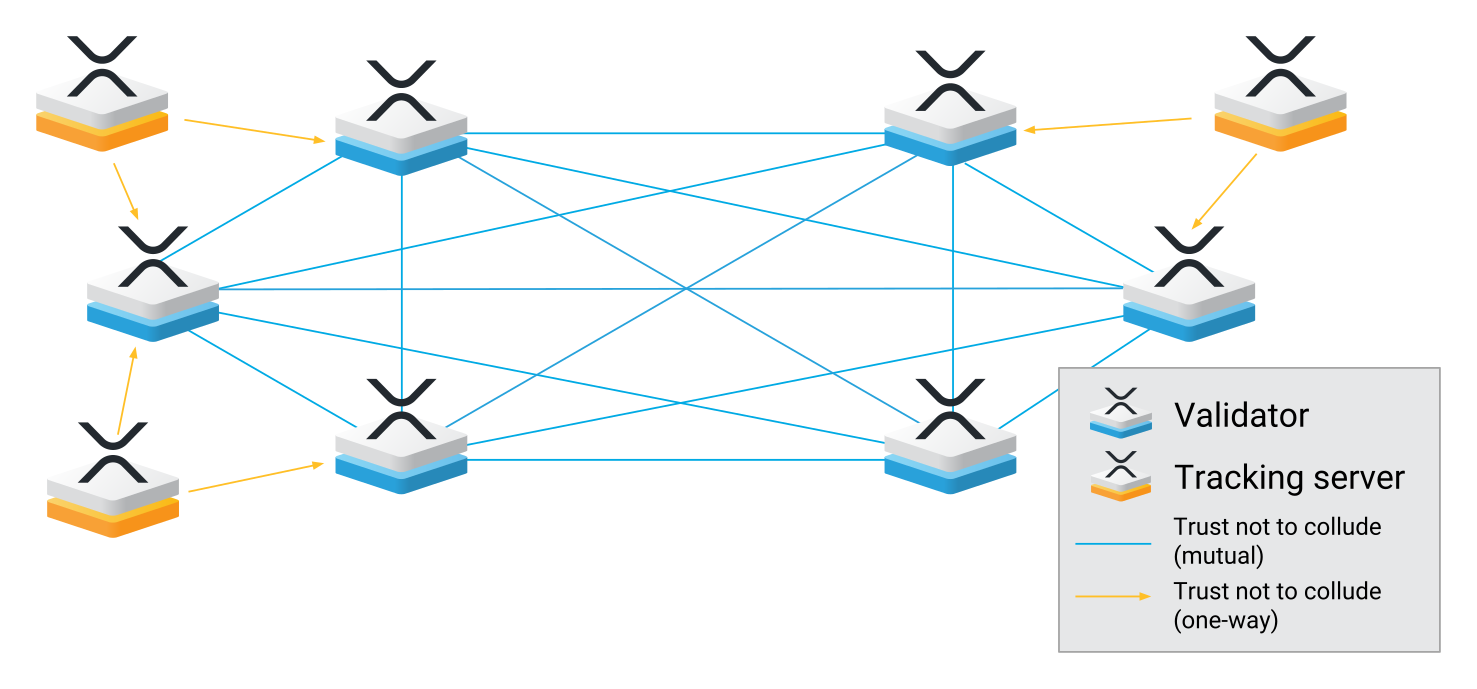
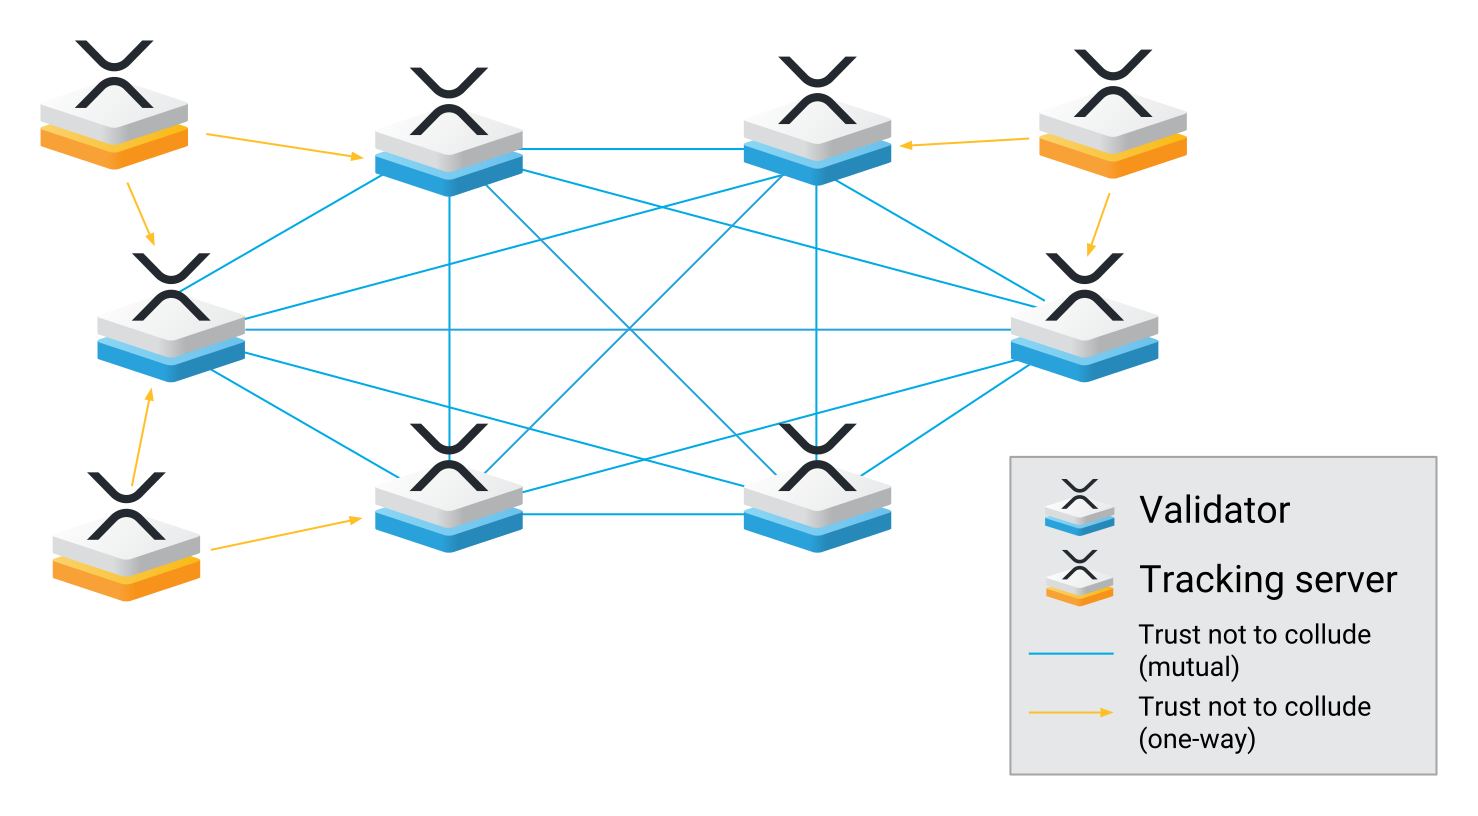
Consensus: more revised diagrams

diff --git a/content/concepts/consensus-network/consensus.md b/content/concepts/consensus-network/consensus.md
@@ -29,7 +29,9 @@ The XRP Ledger has a new ledger version every several seconds. When the network 
 
 _Figure 2: XRP Ledger Sequence and History_
 
-A ledger instance is identified by its _ledger index_, <a href="#footnote_1" id="footnote_from_1"><sup>1</sup></a>, also called a _sequence number_. Ledgers are numbered incrementally. If the current ledger is N, the previous was N-1 and the next is N+1. The N+1 ledger is produced by applying a set of transactions to ledger N. For any ledger index, there may be several candidate versions with slightly different contents, but only one version can become validated; the others are discarded.
+A ledger version has two identifiers. One identifier is its _ledger index_, also called a _sequence number_. Ledger versions are numbered incrementally. For example, if the current ledger version has ledger index of 100, the previous has ledger index 99 and the next has ledger index 101. The other identifier is a _ledger hash_, which is a digital fingerprint of the ledger's contents.
+
+As servers propose transactions to apply to the ledger, they may create several candidate ledger versions with slightly different contents. These candidate ledger versions have the same ledger index but different ledger hashes. Of the many candidates, only one can become validated. All the other candidate ledger versions are discarded. Thus, there is exactly exactly one validated ledger hash for each ledger index in history.
 
 User level changes to the ledger are the results of transactions. Examples of [transactions](transaction-formats.html) include payments, changes to account settings or trust lines, and offers to trade. Each transaction authorizes changes to the ledger and is cryptographically signed by an account owner. Transactions are the only way to authorize changes to an account, or to change anything else in the ledger.
 
@@ -69,27 +71,21 @@ The servers on the network share information about candidate transactions. Throu
 
 During consensus, each server evaluates proposals from a specific set of peers, called chosen validators <a href="#footnote_6" id="footnote_from_6"><sup>6</sup></a>. Chosen validators represent a subset of the network which, when taken collectively, is "trusted" not to collude in an attempt to defraud the server evaluating the proposals. This definition of "trust" does not require that each individual chosen validator is trusted. Rather, validators are chosen based on the expectation they will not collude in a coordinated effort to falsify data relayed to the network <a href="#footnote_7" id="footnote_from_7"><sup>7</sup></a>. <!-- STYLE_OVERRIDE: will -->
 
-[![Figure 5: Validators Propose Transaction Sets](img/consensus-candidate-transaction-sets.png)](img/consensus-candidate-transaction-sets.png)
+[![Figure 5: Validators Propose and Revise Transaction Sets](img/consensus-rounds.png)](img/consensus-rounds.png)
 
-_Figure 5: Validators Propose Transaction Sets — At the start of consensus, servers work with different sets of transactions. Rounds of proposals determine which transactions to apply to the ledger, and which must wait for a later round of consensus._
+_Figure 5: Validators Propose and Revise Transaction Sets — At the start of consensus, validators may have different sets of transactions. In later rounds, servers modify their proposals to match what their trusted validators proposed. This process determines which transactions the should apply to the ledger version currently being discussed, and which they should postpone for later ledger versions._
 
-Candidate transactions which fail to be included in the agreed-upon proposal remain candidate transactions. They may be considered again in the next round of consensus.
+Candidate transactions that are not included in the agreed-upon proposal remain candidate transactions. They may be considered again in for the next ledger version. Typically, a transaction which is omitted from one ledger version is included in the next ledger version.
 
-[![Figure 6: Through Consensus, Servers Agree on Transaction Set](img/consensus-agreed-transaction-set.png)](img/consensus-agreed-transaction-set.png)
-
-_Figure 6: Through Consensus, Servers Agree On Transaction Set — Servers apply the agreed-upon set of transactions (shown in green) to the last validated ledger. Transactions not in the set (in red) may be agreed upon in the next round._
-
-Typically, a transaction which does not pass one round of consensus succeeds in the following round. However, in some circumstances, a transaction could fail to pass consensus indefinitely. One such circumstance is if the network increases the base fee to a value higher than the transaction provides. The transaction could potentially succeed if the fees are lowered at some point in the future.
-
-The [`LastLedgerSequence` transaction field](transaction-common-fields.html) is a mechanism to expire such a transaction if it does not execute in a reasonable time frame. Applications should include a `LastLedgerSequence` parameter with each transaction. This ensures a transaction either succeeds or fails on or before the specified ledger sequence number, thus limiting the amount of time an application must wait before obtaining a definitive transaction result. For more information, see [Reliable Transaction Submission](reliable-transaction-submission.html).
+In some circumstances, a transaction could fail to achieve consensus indefinitely. One such circumstance is if the network increases the required [transaction cost](transaction-cost.html) to a value higher than the transaction provides. The transaction could potentially succeed if the fees are lowered at some point in the future. To ensure that a transaction either succeeds or fails within a limited amount of time, transactions can be set to expire if they are not processed by a certain ledger index. For more information, see [Reliable Transaction Submission](reliable-transaction-submission.html).
 
 ### Validation
 
-When a round of consensus completes, each server computes a new ledger by applying the candidate transactions in the consensus transaction set to the last validated ledger.
+When the consensus process completes, each server computes a new ledger by applying the agreed-upon set of transactions to the previous validated ledger.
 
-[![Figure 7: A Network Node Calculates a Ledger Validation](img/consensus-calculate-validation.png)](img/consensus-calculate-validation.png)
+[![Figure 7: An XRP Ledger Server Calculates a Ledger Validation](img/consensus-calculate-validation.png)](img/consensus-calculate-validation.png)
 
-_Figure 7: A Network Node Calculates a Ledger Validation — Each tracking server applies agreed-upon transactions to the last validated ledger. Validating servers send their results to the entire network._
+_Figure 7: An XRP Ledger Server Calculates a Ledger Validation — Each server applies agreed-upon transactions to the previous validated ledger. Validators send their results to the entire network._
 
 The validators calculate a new version of the ledger and relay their results to the network, each sending a signed hash of the ledger it calculated based on the candidate transactions proposed during consensus. These signed hashes, called validations, allow each server to compare the ledger it computed with those of its peers.
 
@@ -148,8 +144,6 @@ Best practices for applications submitting transactions include:
 
 
 ## End Notes
-
-<a href="#footnote_from_1" id="footnote_1"><sup>1</sup></a> – A ledger instance can also be uniquely identified by its hash, which is a digital fingerprint of its contents.
 
 <a href="#footnote_from_2" id="footnote_2"><sup>2</sup></a> – Transactions with **tec** result codes are included in ledgers and not do the requested action. The rationale for this is that multiple transactions may be submitted in sequence, with the order of processing determined by a sequence number associated with an account (not to be confused with the ledger sequence number). To prevent a hold on account sequence numbers which would block later transactions, the transaction is processed to consume the sequence number. Additionally, transactions which are distributed to the network must claim a fee to prevent network abuse.
 
